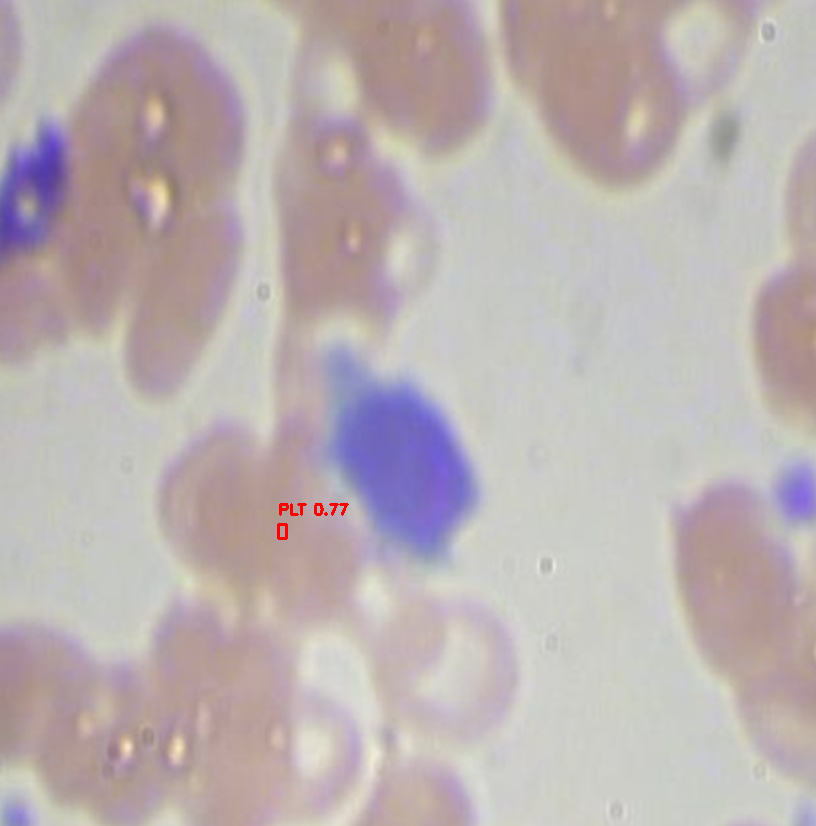
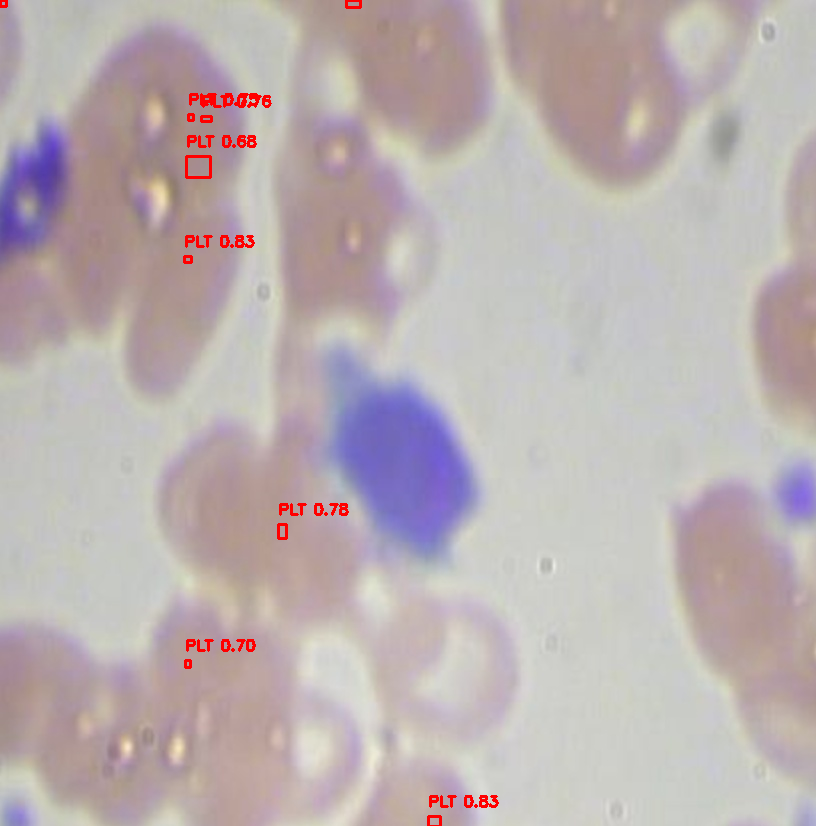
fix model

diff --git a/models.py b/models.py
@@ -69,17 +69,25 @@ def create_cell_specific_visualizations(image: np.ndarray, detections: Dict) -> 
         
         # Define colors for visualization
         colors = {
-            'RBC': (0, 255, 0),      # Green
+            'RBC': (0, 255, 0, 180),  # Green with some transparency
             'WBC': (255, 0, 0),      # Red
             'Platelets': (0, 0, 255)  # Blue
         }
         
+        # Create a transparent overlay for RBCs
+        overlay = rbc_image.copy()
+
         # Draw RBCs
         for det in detections['detections']['RBC']:
             x1, y1, x2, y2 = det['bbox']
-            cv2.rectangle(rbc_image, (x1, y1), (x2, y2), colors['RBC'], 2)
+            # Draw a filled rectangle on the overlay
+            cv2.rectangle(overlay, (x1, y1), (x2, y2), colors['RBC'][:3], -1)
             cv2.putText(rbc_image, f"RBC {det['confidence']:.2f}", 
-                       (x1, y1-10), cv2.FONT_HERSHEY_SIMPLEX, 0.5, colors['RBC'], 2)
+                       (x1, y1-10), cv2.FONT_HERSHEY_SIMPLEX, 0.5, (0,0,0), 2) # Black text for visibility
+        
+        # Blend the overlay with the original image
+        alpha = 0.4 # Transparency factor
+        cv2.addWeighted(overlay, alpha, rbc_image, 1 - alpha, 0, rbc_image)
         
         # Draw WBCs
         for det in detections['detections']['WBC']:
@@ -545,17 +553,17 @@ def create_enhanced_detection(image_path):
         wbc_count = 0
         for contour in contours_wbc:
             area = cv2.contourArea(contour)
-            # WBCs are typically larger than RBCs
-            if 300 < area < 5000:
+            # WBCs are typically larger than RBCs - WIDENED RANGE
+            if 200 < area < 8000:
                 x, y, w, h = cv2.boundingRect(contour)
                 
-                # Check aspect ratio and solidity
+                # Check aspect ratio and solidity - RELAXED CONSTRAINTS
                 aspect_ratio = w / h if h > 0 else 1
                 hull = cv2.convexHull(contour)
                 hull_area = cv2.contourArea(hull)
                 solidity = area / hull_area if hull_area > 0 else 0
                 
-                if 0.6 <= aspect_ratio <= 1.5 and solidity > 0.7:
+                if 0.5 <= aspect_ratio <= 1.8 and solidity > 0.6:
                     conf = random.uniform(0.65, 0.92)
                     
                     cell_data = {
@@ -604,19 +612,19 @@ def create_enhanced_detection(image_path):
         platelet_count = 0
         for contour in contours_platelets:
             area = cv2.contourArea(contour)
-            # Platelets are much smaller than other cells
-            if 20 < area < 300:
+            # Platelets are much smaller than other cells - WIDENED RANGE
+            if 10 < area < 400:
                 x, y, w, h = cv2.boundingRect(contour)
                 
                 # Check if it's not already detected as RBC or WBC
                 center_x, center_y = x + w//2, y + h//2
                 is_duplicate = False
                 
-                # Check against existing detections
+                # Check against existing detections - REDUCED DISTANCE
                 for existing_cell in all_detections['All_Cells']:
                     ex_center = existing_cell['center']
                     distance = np.sqrt((center_x - ex_center[0])**2 + (center_y - ex_center[1])**2)
-                    if distance < 15:  # Too close to existing detection
+                    if distance < 10:  # Too close to existing detection
                         is_duplicate = True
                         break
                 

diff --git a/app.py b/app.py
@@ -515,8 +515,8 @@ if st.button("Start Comprehensive Analysis", type="primary", key="analyze_button
                 progress_container.info("🔍 Running comprehensive blood cell detection with maximum sensitivity...")
                 
                 try:
-                    # Use a higher confidence threshold to reduce RBCs and focus on WBC/Platelets
-                    detection_results = detect_all_cells_comprehensive(yolo_model, tmp_file.name, confidence_threshold=0.1)
+                    # Use a very low confidence threshold to maximize initial YOLO detections
+                    detection_results = detect_all_cells_comprehensive(yolo_model, tmp_file.name, confidence_threshold=0.01)
                     progress_container.empty()  # Clear the progress message
                 except Exception as detection_error:
                     progress_container.error(f"An error occurred during detection: {str(detection_error)}")
